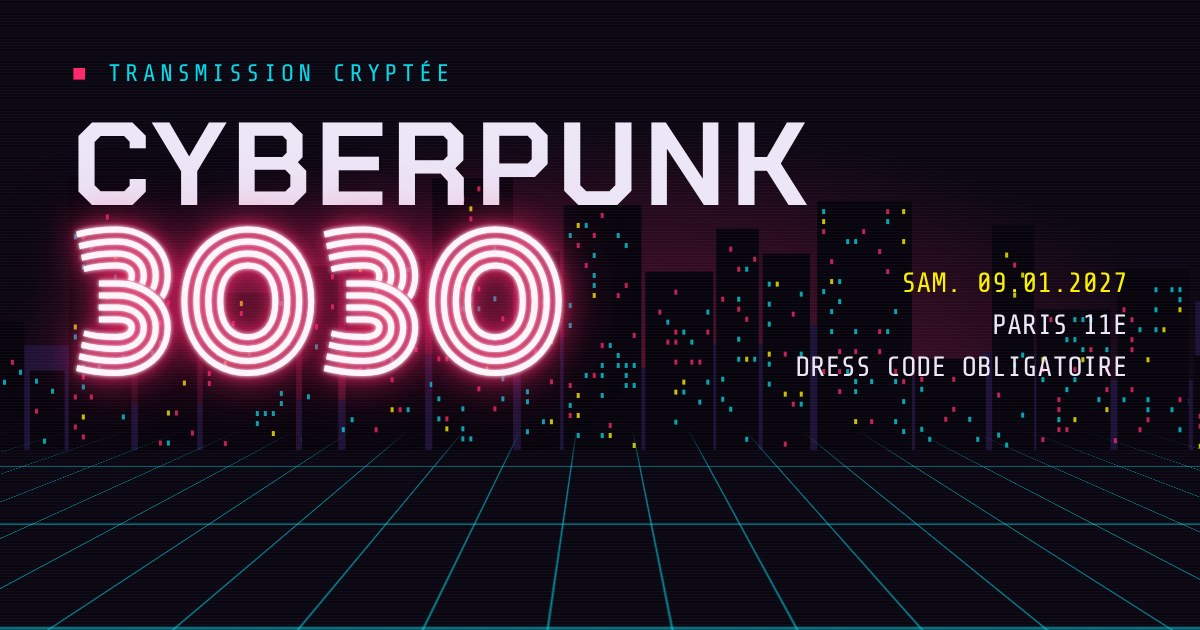
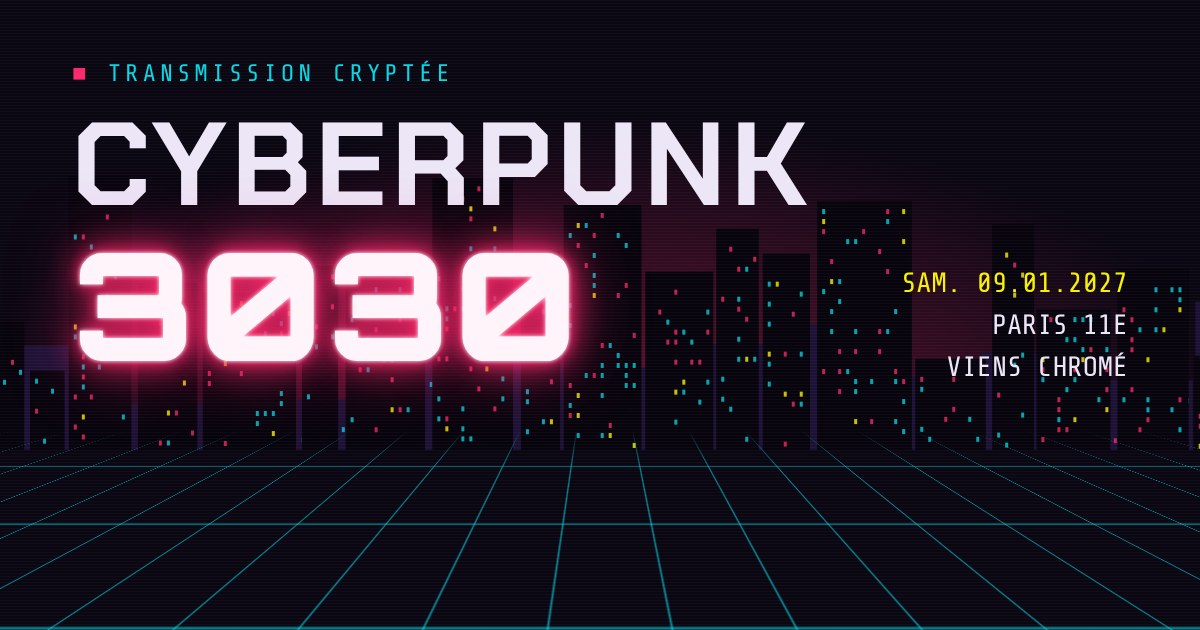
Textes : réécriture complète validée
- boot, accroche du haut (mise à jour vers le futur en cours)
- briefing réécrit (Runner, j'ai un job pour toi ; citation Keanu Reeves)
- directives, programme (descriptions, brasserie, ligne Budget)
- grades du registre : Netrunner, Edgerunner, Blade Runner
- dress code : encadré Rétro-futurisme, plus de récompense du meilleur déguisement
- inscription, registre, FAQ (9 questions), description du lien
- image d'aperçu : 3030 en Orbitron, VIENS CHROMÉ

Claude-Session: https://claude.ai/code/session_01NaFW8py2ZGSU5eUaDnqPeh

Changed region(s): [[0.0308, 0.3317, 0.5242, 0.6333], [0.6475, 0.5429, 0.925, 0.6032]]

diff --git a/index.html b/index.html
@@ -5,11 +5,11 @@
 <meta name="viewport" content="width=device-width, initial-scale=1, viewport-fit=cover">
 <title>Cyberpunk 3030</title>
 <meta name="claude:viewport-fit-sides" content="cover">
-<meta name="description" content="Samedi 9 janvier 2027, Paris 11e. Laser game, déjeuner, soirée bar + DJ set. Accepte le contrat.">
+<meta name="description" content="Samedi 9 janvier 2027, Paris 11e. Laser game, déjeuner, soirée bar + DJ set. Viens chromé. Accepte le contrat.">
 <meta name="theme-color" content="#0a0612">
 <meta property="og:type" content="website">
 <meta property="og:title" content="CYBERPUNK 3030 // Bigcity passe en v3.0">
-<meta property="og:description" content="Samedi 9 janvier 2027, Paris 11e. Laser game, ravitaillement, soirée bar + DJ set. Dress code obligatoire. Accepte le contrat.">
+<meta property="og:description" content="Samedi 9 janvier 2027, Paris 11e. Laser game, déjeuner, soirée bar + DJ set. Viens chromé. Accepte le contrat.">
 <meta property="og:image" content="https://hgranville.github.io/cyberpunk-3030/og.jpg">
 <meta property="og:image:width" content="1200">
 <meta property="og:image:height" content="630">
@@ -290,6 +290,11 @@ section.block { padding-block: clamp(56px, 9vw, 96px); border-bottom: 1px solid 
 .motto { font-family: var(--f-mono); font-size: .85rem; color: var(--magenta); letter-spacing: .04em; }
 .glossary { font-family: var(--f-mono); font-size: .85rem; color: var(--dim); border-left: 2px solid var(--yellow); padding: 4px 0 4px 12px; text-shadow: 0 1px 2px var(--void), 0 0 12px var(--void); }
 .transmission .sign { font-family: var(--f-mono); color: var(--magenta); }
+.transmission .quote { font-family: var(--f-head); font-weight: 700; font-size: var(--step-1); letter-spacing: .03em; color: var(--magenta); text-shadow: 0 0 12px rgba(255,42,109,0.45); }
+.hero-lede .update { display: block; margin-top: 8px; font-family: var(--f-mono); font-size: 1rem; letter-spacing: .04em; color: var(--cyan); }
+.phase-foot .foot-info { display: grid; gap: 2px; }
+.phase-foot .budget { font-family: var(--f-mono); font-size: .85rem; color: var(--dim); }
+.phase-foot .budget b { color: var(--yellow); font-weight: 400; }
 .directives { display: grid; gap: 14px; }
 .directives h3 { font-family: var(--f-mono); font-weight: 400; font-size: .8rem; letter-spacing: .16em; color: var(--yellow); text-transform: uppercase; }
 .directives ol { margin: 0; padding: 0; list-style: none; display: grid; gap: 12px; counter-reset: d; }
@@ -567,7 +572,7 @@ footer b { color: var(--magenta); font-weight: 400; }
         <span class="word glitch" data-text="Cyberpunk">Cyberpunk</span>
         <span class="num">3030</span>
       </h1>
-      <p class="hero-lede">Bigcity passe en <strong>version 3.0</strong>. Une journée, trois <span class="kw">runs</span>, un seul dress code : le futur.</p>
+      <p class="hero-lede">Bigcity passe en <strong>version 3.0</strong>. Une journée, trois <span class="kw">runs</span>.<span class="update">&gt; Mise à jour vers le futur en cours <span class="caret"></span></span></p>
       <dl class="hero-meta">
         <div><dt>Date</dt><dd>Samedi 9 janvier 2027</dd></div>
         <div><dt>Secteur</dt><dd>Paris 11e</dd></div>
@@ -592,20 +597,22 @@ footer b { color: var(--magenta); font-weight: 400; }
       </div>
       <div class="briefing">
         <div class="hud transmission">
-          <p class="from">DE : TON FIXER, BIGCITY // À : TOI, RUNNER // OBJET : CONTRAT</p>
-          <p class="hook">Wake up, Samurai.</p>
-          <p>Le 9 janvier 3030, je passe la barre des trente ans dans les rues de Néo-Paris. Pour marquer le coup, je recrute une équipe de <em>runners</em>, et ton nom est remonté dans mes fichiers.</p>
-          <p>Le contrat tient en trois <em>runs</em> : une chasse aux réplicants sous les lasers, un ravitaillement tous ensemble, puis l'<em>Afterlife Overdrive</em>, une nuit au bar avec DJ set jusqu'à extinction des néons.</p>
-          <p>Viens à un run, à deux ou aux trois. Mais viens <em>chromé</em>, c'est-à-dire déguisé : les corpos en chemise seront repérés.</p>
-          <p class="sign">// Fin de transmission. Ce message ne s'autodétruira pas.</p>
+          <p class="from">DE : BIGCITY, TON FIXER // À : TOI, RUNNER // OBJET : CONTRAT 3030</p>
+          <p class="hook">Runner, j'ai un job pour toi.</p>
+          <p>Le 9 janvier 3030, j'upgrade en version 3.0. Pour l'occasion, je monte un contrat de la plus haute importance dans les rues de Néo-Paris. Je recrute des <em>runners</em> fiables et expérimentés pour former une <em>unité d'élite</em>, et ton nom est remonté de la <em>Matrice</em>.</p>
+          <p>Le contrat tient en trois <em>runs</em> dans le secteur 11 : une chasse aux réplicants, un <em>gig</em> de ravitaillement, puis une descente à l'<em>Afterlife</em>, le bouquet final, si tu vois ce que je veux dire.</p>
+          <p>Viens à un run, à deux ou aux trois. Mais fais-moi honneur : viens <em>chromé</em> et prouve ta valeur de runner. Les <em>corpos</em> en chemise sont un fléau, et cette nuit marquera la fin de leur règne.</p>
+          <p>Et n'oublie pas ce que disait Keanu Reeves :</p>
+          <p class="quote">« Wake the fuck up, Samurai. We have a city to burn. »</p>
+          <p class="sign">// Fin de transmission. Bigcity.</p>
         </div>
         <div class="hud mag directives">
           <h3>Directives</h3>
           <ol>
-            <li><div><b>Accepte le <span class="kw">contrat</span> aujourd'hui.</b> <span>Les lieux se réservent sur la base des inscrits. Tu pourras modifier tes choix plus tard.</span></div></li>
-            <li><div><b>Choisis tes <span class="kw">runs</span>.</b> <span>Laser game, déjeuner, soirée : coche ceux où tu seras là.</span></div></li>
-            <li><div><b>Monte ton <span class="kw">escouade</span>.</b> <span>Ton ou ta +1, tes potes : inscris-les dans le même formulaire.</span></div></li>
-            <li><div><b>Prépare ton <span class="kw">chrome</span>.</b> <span>Ton déguisement. Le meilleur look de la journée sera récompensé.</span></div></li>
+            <li><div><b>Accepte le <span class="kw">contrat</span> dès aujourd'hui.</b> <span>Les réservations se font sur la base des inscrits. Tu pourras changer d'avis plus tard.</span></div></li>
+            <li><div><b>Choisis tes <span class="kw">runs</span>.</b> <span>Coche ceux auxquels tu penses participer.</span></div></li>
+            <li><div><b>Monte ton <span class="kw">escouade</span>.</b> <span>Avec l'accord du boss, inscris ton +1 dans le même formulaire.</span></div></li>
+            <li><div><b>Prépare ton <span class="kw">chrome</span>.</b> <span>Tes équipements et la peau que tu vas revêtir pour le contrat.</span></div></li>
           </ol>
           <a class="btn btn-primary" href="#enrolement">Accepter le contrat</a>
         </div>
@@ -619,7 +626,7 @@ footer b { color: var(--magenta); font-weight: 400; }
       <div class="sec-head">
         <p class="sec-tag">// Déroulé des opérations</p>
         <h2 id="programme-title" class="glitch" data-text="Programme" style="--gd:-2.1s">Programme</h2>
-        <p>Samedi 9 janvier 2027, trois <span class="kw">runs</span> dans le 11e : viens à un, deux ou aux trois. Chacun règle ses <span class="kw">eddies</span> (sa part) sur place.</p>
+        <p>Trois <span class="kw">runs</span>, tous dans le 11e. Rejoins-nous où tu peux, ou enchaîne les trois comme un <span class="kw">blade runner</span>. Chacun règle ses <span class="kw">eddies</span> sur place.</p>
       </div>
       <div class="timeline" id="timeline"></div>
     </div>
@@ -631,13 +638,11 @@ footer b { color: var(--magenta); font-weight: 400; }
       <div class="sec-head">
         <p class="sec-tag">// Protocole visuel</p>
         <h2 id="dress-title" class="glitch" data-text="Dress code" style="--gd:-3.4s">Dress code</h2>
-        <p>Rétro-futurisme, néons, cuir, métal et circuits imprimés. Pas besoin de budget : il faut juste jouer le jeu.</p>
-        <p class="glossary">Dans l'univers cyberpunk, le corps est une enveloppe (un <span class="kw">sleeve</span>, un <span class="kw">shell</span>) qu'on améliore à coups d'implants, le <span class="kw">chrome</span>. Ici, ton chrome, c'est ton déguisement.</p>
       </div>
       <div class="dress-intro">
         <div class="alert">
-          <h3>⚠ Déguisement fortement recommandé</h3>
-          <p>Les corpos en chemise se font repérer. Le meilleur <span class="kw">chrome</span> de la journée sera récompensé pendant la soirée, et immortalisé en <span class="kw">braindance</span> (en photo, pour les civils).</p>
+          <h3>Rétro-futurisme</h3>
+          <p>Néons, cuir, métal, circuits imprimés. Dans l'univers cyberpunk, le corps est une enveloppe (un <span class="kw">sleeve</span>, un <span class="kw">shell</span>) qu'on améliore à coups d'implants : le <span class="kw">chrome</span>. Ici, ton chrome, c'est ton déguisement.</p>
         </div>
         <div class="palette">
           <h3>Palette autorisée</h3>
@@ -681,14 +686,14 @@ footer b { color: var(--magenta); font-weight: 400; }
             <li>Implants : maquillage circuits, prothèses en carton argenté</li>
             <li>Perruque néon, lentilles, tenue holographique</li>
             <li>Gants, harnais, câbles qui dépassent</li>
-            <li>Tu clignotes dans le noir</li>
+            <li>Bonus : tu clignotes dans le noir</li>
           </ul>
         </div>
       </div>
       <div class="tips">
         <div class="tip"><b>Où trouver</b><span>Friperies, bazars, rayons déco de Noël (guirlandes LED à piles), magasins de déguisement.</span></div>
         <div class="tip"><b>Astuce</b><span>Du scotch métallisé et du carton suffisent pour un implant convaincant.</span></div>
-        <div class="tip"><b>Pense pratique</b><span>Le laser game se joue en mouvement : garde le chrome complet pour l'Afterlife si besoin.</span></div>
+        <div class="tip"><b>Pense pratique</b><span>Le laser game se joue en mouvement : prévois une tenue qui te laisse bouger, et garde le full chrome pour l'Afterlife.</span></div>
       </div>
     </div>
   </section>
@@ -699,7 +704,7 @@ footer b { color: var(--magenta); font-weight: 400; }
       <div class="sec-head">
         <p class="sec-tag">// Inscription</p>
         <h2 id="enrol-title" class="glitch" data-text="Accepter le contrat" style="--gd:-1.2s">Accepter le contrat</h2>
-        <p>Inscris-toi, ajoute ton <span class="kw">escouade</span> (les personnes qui viennent avec toi) et coche les <span class="kw">runs</span> de chacun. Modifiable à tout moment, depuis n'importe quel appareil, via le registre.</p>
+        <p>Inscris-toi, ajoute ton <span class="kw">escouade</span> et coche les <span class="kw">runs</span> de chacun. Modifiable à tout moment.</p>
       </div>
 
       <div class="enrol-grid">
@@ -748,7 +753,7 @@ footer b { color: var(--magenta); font-weight: 400; }
       <div class="sec-head">
         <p class="sec-tag">// Base de données du Réseau</p>
         <h2 id="reg-title" class="glitch" data-text="Registre des runners" style="--gd:-4.3s">Registre des runners</h2>
-        <p>Qui vient, et à quoi. Pour modifier une inscription faite sur un autre appareil, retrouve ton nom ici et touche « Modifier ».</p>
+        <p>Qui vient, et à quoi. Pour modifier ton inscription depuis un autre appareil, retrouve ton nom ici et clique sur « Modifier ».</p>
       </div>
       <div class="stats" id="stats"></div>
       <div class="reg-tools">
@@ -774,32 +779,36 @@ footer b { color: var(--magenta); font-weight: 400; }
       </div>
       <div class="faq">
         <details>
-          <summary>Pilule rouge ou pilule bleue : je dois venir à toute la journée ?</summary>
-          <div class="ans"><p>Non. Choisis les <span class="kw">runs</span> qui t'arrangent : laser game, déjeuner, soirée, ou n'importe quelle combinaison. Coche simplement les bonnes cases.</p></div>
+          <summary>Je dois venir à toute la journée ?</summary>
+          <div class="ans"><p>Non. Choisis les <span class="kw">runs</span> qui te tentent : laser game, déjeuner, soirée, ou n'importe quelle combinaison.</p></div>
         </details>
         <details>
           <summary>Combien ça coûte ?</summary>
-          <div class="ans"><p>Chacun règle ses <span class="kw">eddies</span> (sa part) sur place : laser game, repas, consos. Ton <span class="kw">fixer</span> prend en charge une partie, notamment au bar le soir.</p></div>
+          <div class="ans"><p>Chacun règle ses <span class="kw">eddies</span> sur place : environ 25 € pour le laser game, 30 à 40 € pour le déjeuner, et tes consos à l'Afterlife. Ton <span class="kw">fixer</span> s'occupe de la bouffe, et c'est happy hour jusqu'à 21h.</p></div>
         </details>
         <details>
           <summary>Je peux venir accompagné(e) ?</summary>
-          <div class="ans"><p>Oui, monte ton <span class="kw">escouade</span> : dans le formulaire, touche <b>« Ajouter un membre à mon escouade »</b> et coche ses runs. Chaque personne compte pour les réservations.</p></div>
+          <div class="ans"><p>Oui, avec l'accord du boss : préviens ton <span class="kw">fixer</span>, puis clique sur <b>« Ajouter un membre à mon escouade »</b> dans le formulaire et coche ses runs.</p></div>
         </details>
         <details>
-          <summary>Je ne suis pas encore sûr(e), je m'inscris quand même ?</summary>
-          <div class="ans"><p>Oui, accepte le contrat le plus tôt possible : les réservations se font sur la base des inscrits. Coche ce qui est probable aujourd'hui, tu pourras décocher plus tard.</p></div>
+          <summary>Pilule rouge ou pilule bleue ? Je ne suis pas encore sûr(e) de venir.</summary>
+          <div class="ans"><p>Prends la rouge : inscris-toi maintenant avec ce qui est probable. Les réservations se font sur la base des inscrits, et tu pourras décocher plus tard.</p></div>
         </details>
         <details>
           <summary>Comment modifier ou annuler mon inscription ?</summary>
-          <div class="ans"><p>Sur l'appareil qui a servi à t'inscrire, un encadré vert en haut du formulaire te propose de modifier. Sinon, retrouve ton nom dans le <a href="#registre">registre</a> et touche <b>« Modifier »</b>. Tu peux cocher, décocher, ajouter ou retirer quelqu'un, ou supprimer l'inscription.</p></div>
+          <div class="ans"><p>Sur l'appareil qui t'a servi à t'inscrire, ton inscription s'affiche juste au-dessus du formulaire. Sinon, retrouve ton nom dans le <a href="#registre">registre</a> et clique sur <b>« Modifier »</b>. Tu peux cocher, décocher, ajouter ou retirer quelqu'un, ou tout annuler.</p></div>
         </details>
         <details>
           <summary>Le déguisement est obligatoire ?</summary>
-          <div class="ans"><p>Fortement recommandé. Même un seul accessoire lumineux suffit pour passer du côté des runners. Regarde le <a href="#dresscode">dress code</a> pour des idées à tous les niveaux d'effort.</p></div>
+          <div class="ans"><p>Fortement recommandé. Même un seul accessoire lumineux suffit. Le <a href="#dresscode">dress code</a> propose des idées pour tous les niveaux d'effort.</p></div>
         </details>
         <details>
           <summary>Il y a une pause entre le déjeuner et la soirée ?</summary>
-          <div class="ans"><p>Oui, l'après-midi est libre entre la fin du déjeuner et 19h : idéal pour finaliser ton <span class="kw">chrome</span>.</p></div>
+          <div class="ans"><p>Oui, l'après-midi est libre entre la fin du déjeuner et 19h : repos physique, recharge mentale et finitions du <span class="kw">chrome</span>.</p></div>
+        </details>
+        <details>
+          <summary>Je peux arriver en cours de route ?</summary>
+          <div class="ans"><p>Oui, rejoins-nous directement au lieu du run suivant. Horaires et adresses sont dans le <a href="#programme">programme</a>.</p></div>
         </details>
         <details>
           <summary>J'ai une autre question</summary>
@@ -845,7 +854,8 @@ const CONFIG = {
       status: "ok",              // "ok" = lieu confirmé, "wait" = à confirmer
       statusLabel: "Lieu confirmé",
       // [[mot]] = mot-clé surligné en jaune
-      desc: "Briefing tactique, équipes tirées au sort, et que les [[réplicants]] se tiennent prêts. Arrive à l'heure : les parties s'enchaînent."
+      budget: "~25 €",
+      desc: "Des [[réplicants]] ont infiltré le secteur 11. Tirage au sort des bataillons, briefing tactique, et que la chasse commence. Arrive à l'heure : les traques s'enchaînent."
     },
     {
       key: "dejeuner",
@@ -853,12 +863,13 @@ const CONFIG = {
       time: "14:00",
       short: "Déjeuner",
       title: "Ravitaillement",
-      kind: "Déjeuner au resto",
+      kind: "Déjeuner en brasserie",
       venue: "Lieu en cours de sélection",
       address: "Coordonnées transmises très bientôt",
       status: "wait",
       statusLabel: "À confirmer",
-      desc: "On recharge les batteries tous ensemble après la chasse. Le lieu sera annoncé ici dès qu'il est réservé."
+      budget: "30 à 40 €",
+      desc: "On infiltre un point stratégique pour voler des provisions et se partager le [[butin]]. De quoi recharger les batteries après la chasse. Le lieu sera transmis ici sous peu."
     },
     {
       key: "soiree",
@@ -871,11 +882,12 @@ const CONFIG = {
       address: "13 rue Marguerite Moret, 75011 Paris",
       status: "ok",
       statusLabel: "Lieu confirmé",
-      desc: "Néons, DJ set et tournées jusqu'à extinction des feux. Ton [[fixer]] arrose une partie des consos. Remise du prix du meilleur [[chrome]]."
+      budget: "∞",
+      desc: "Le moment que tout le monde attend : la descente à l'[[Afterlife]], le berceau de la pègre. Happy hour jusqu'à 21h, et ton [[fixer]] s'occupe de la bouffe. Complots au coin du bar, cocktails explosifs et DJ set électrique. Les [[corpos]] ne s'en remettront pas."
     }
   ],
 
-  interludes: { soiree: { time: "16:00", text: "Temps libre // recharge, finitions du chrome" } },
+  interludes: { soiree: { time: "16:00", text: "Temps libre // repos physique, recharge mentale et finitions du chrome" } },
 
   maxMembers: 10
 };
@@ -996,10 +1008,11 @@ function runBoot() {
   if (reducedMotion) { boot.hidden = true; document.body.classList.add("ready"); return; }
   const lines = [
     "> NEO-PARIS NET // NŒUD 75011",
-    "> Jack-in via lien direct................ OK",
-    "> Décryptage du contrat.................. OK",
-    "> Profil détecté : RUNNER POTENTIEL",
-    "> Chargement de la mission CYBERPUNK 3030",
+    "> Jack-in via lien direct......... OK",
+    "> Décryptage du contrat........... OK",
+    "> Scan biométrique................ OK",
+    "> Profil détecté : RUNNER",
+    "> Chargement : CYBERPUNK 3030",
     "",
     "ACCÈS AUTORISÉ"
   ];
@@ -1099,7 +1112,10 @@ function renderTimeline() {
         <div class="venue"><strong>${esc(p.venue)}</strong><span>${esc(p.address)}</span></div>
         <p class="phase-desc">${kw(p.desc)}</p>
         <div class="phase-foot">
-          <span class="count"><b data-count="${p.key}">${state.loaded ? counts[p.key] : "--"}</b> runners inscrits</span>
+          <div class="foot-info">
+            <span class="count"><b data-count="${p.key}">${state.loaded ? counts[p.key] : "--"}</b> runners inscrits</span>
+            ${p.budget ? `<span class="budget">Budget : <b>${esc(p.budget)}</b></span>` : ""}
+          </div>
           ${maps}
         </div>
       </div>
@@ -1134,9 +1150,9 @@ function renderFilters() {
   $("#legend").textContent = "Légende : " + PHASES.map((p) => `${p.short.charAt(0)} = ${p.short} (${p.time})`).join(" · ");
 }
 
-// Rang d'un runner seul selon le nombre de runs cochés : 1 Runner, 2 NetRunner, 3 Edgerunner.
-const RANKS = ["Runner", "Runner", "NetRunner", "Edgerunner"];
-function soloRank(m) { return RANKS[PHASES.filter((p) => m[p.key]).length] || "Runner"; }
+// Rang d'un runner seul selon le nombre de runs cochés : 1 Netrunner, 2 Edgerunner, 3 Blade Runner.
+const RANKS = ["Netrunner", "Netrunner", "Edgerunner", "Blade Runner"];
+function soloRank(m) { return RANKS[PHASES.filter((p) => m[p.key]).length] || "Netrunner"; }
 
 function renderRegistry() {
   const list = $("#reg-list");
